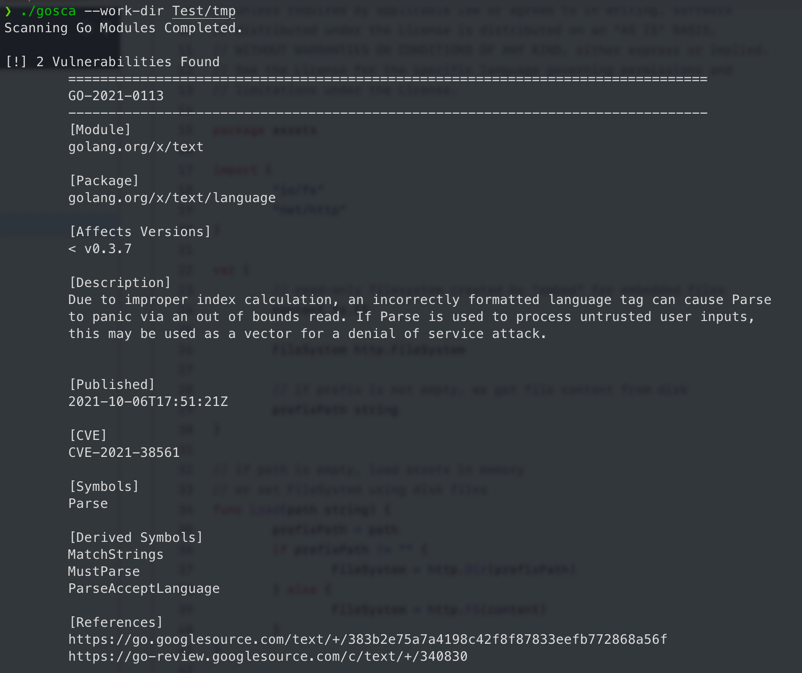
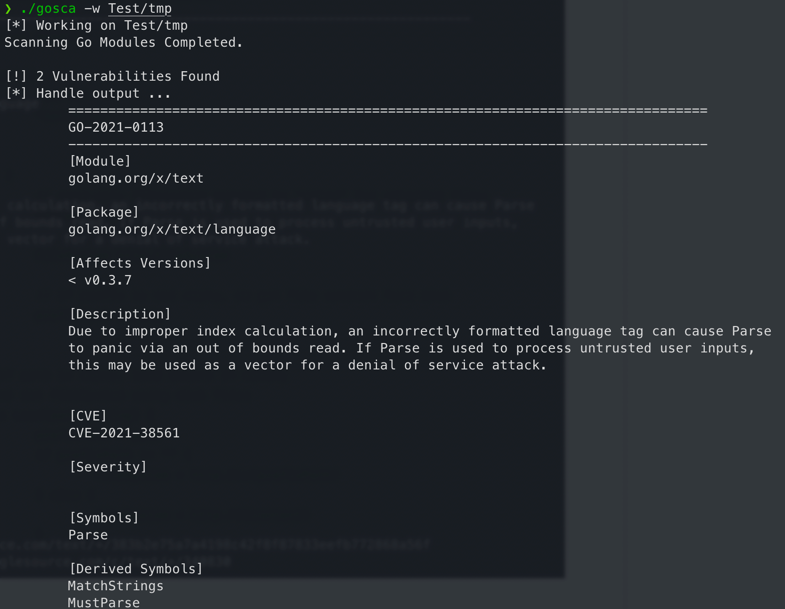
docs(README): Update README Usage

diff --git a/README.md b/README.md
@@ -4,7 +4,7 @@ GoSCA scans a Go project for vulnerable dependencies.
 
 ### Usage
 ```bash
-./gosca --work-dir /path/to/workdir
+./gosca -w /path/to/workdir
 ```
 
 ![dash-h.png](doc/dash-h.png)
